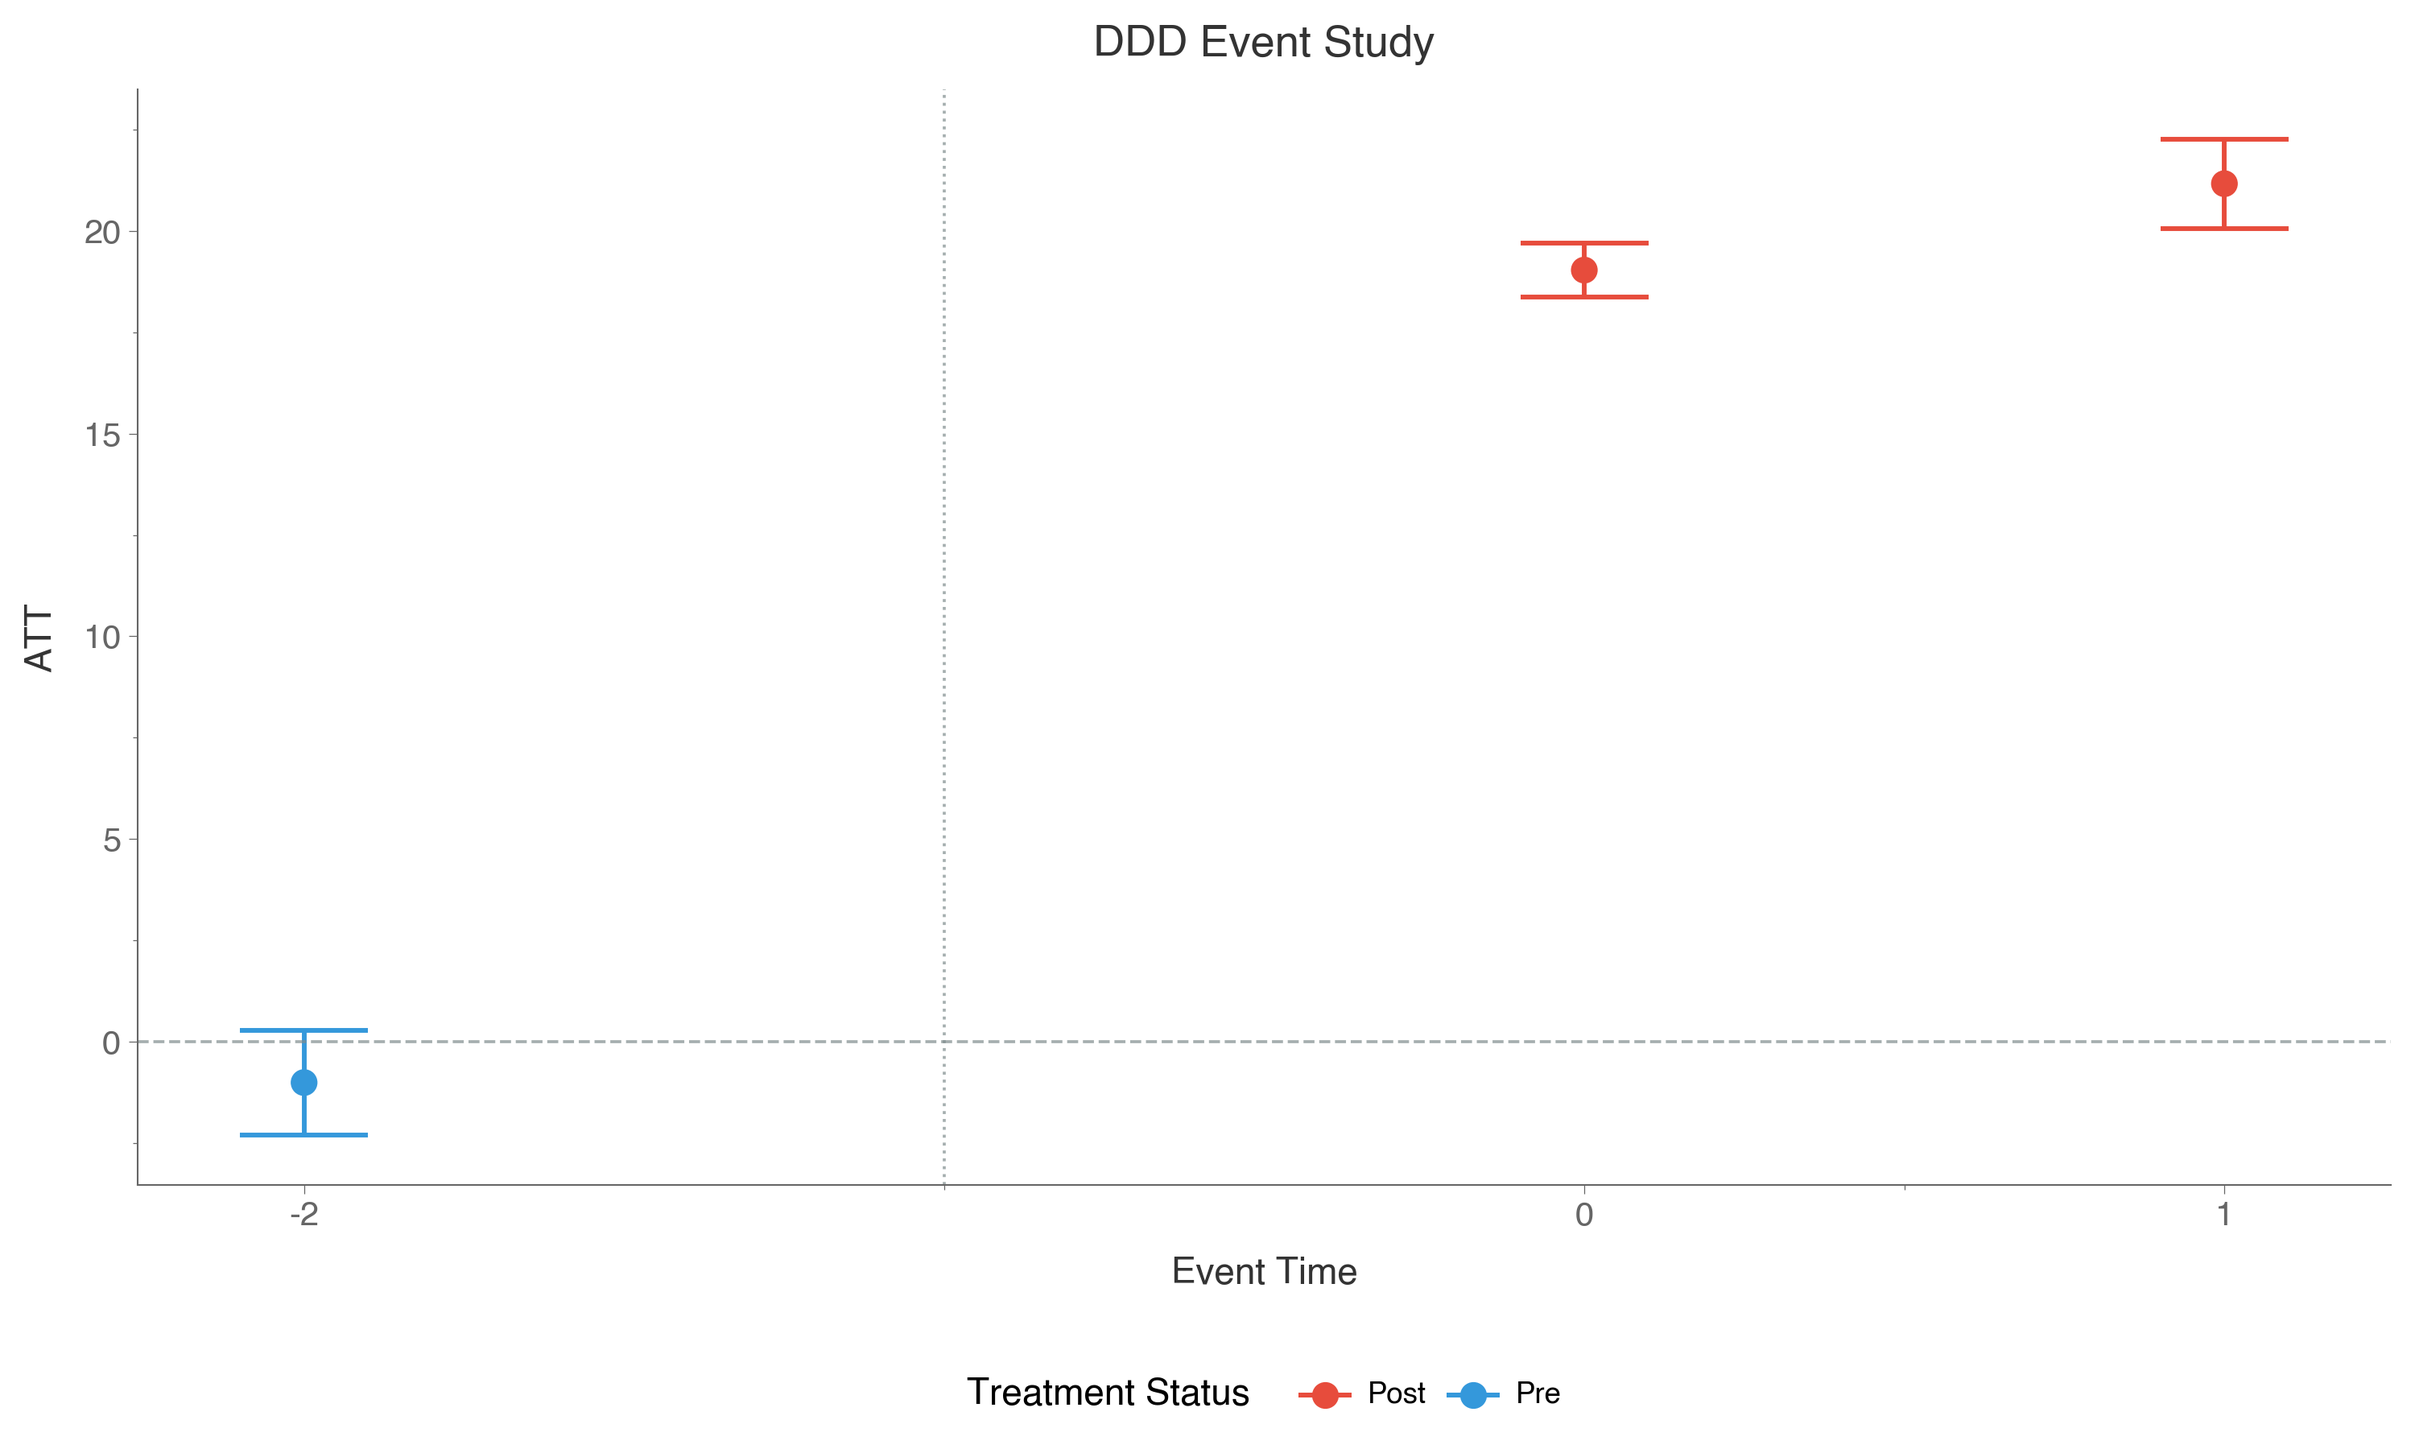
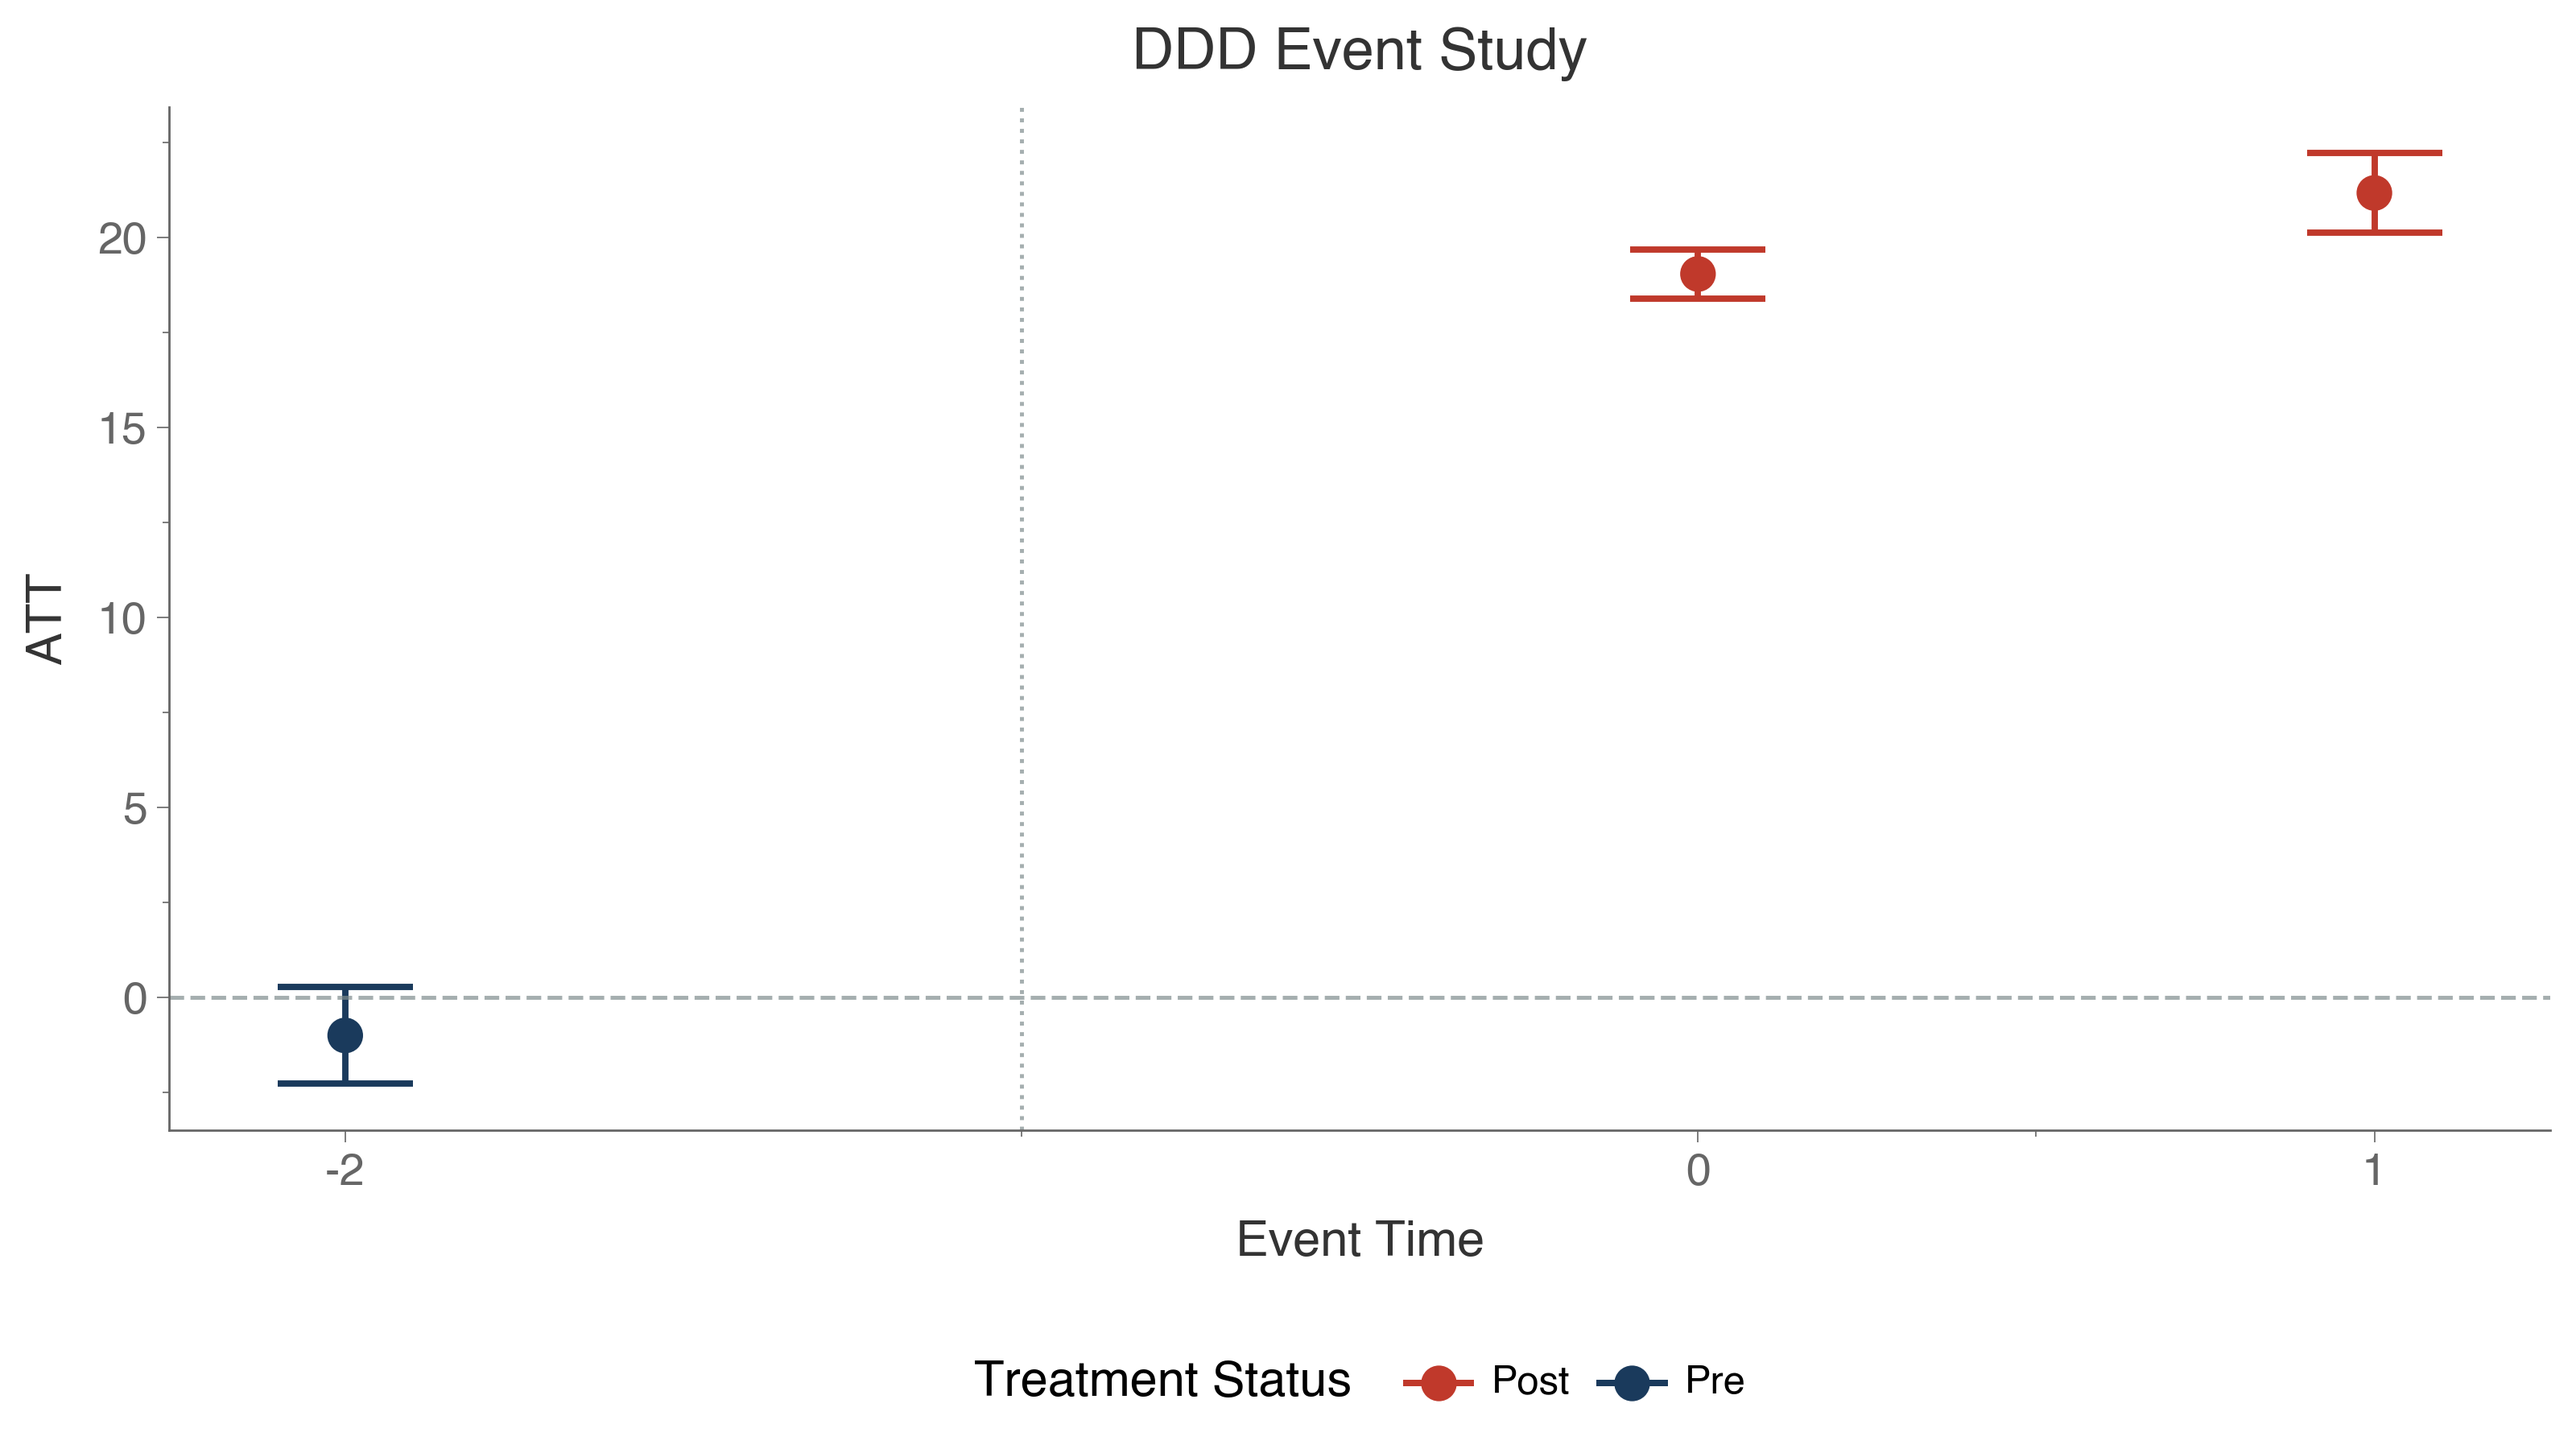
REF: update color scheme

diff --git a/moderndid/plots/themes.py b/moderndid/plots/themes.py
@@ -5,16 +5,16 @@ from __future__ import annotations
 from plotnine import element_blank, element_line, element_rect, element_text, theme
 
 COLORS = {
-    "pre_treatment": "#3498db",
-    "post_treatment": "#e74c3c",
+    "pre_treatment": "#1a3a5c",
+    "post_treatment": "#c0392b",
     "line": "#3a3a3a",
     "ci_fill": "#bfbfbf",
     "reference": "gray",
-    "original": "#2c3e50",
-    "flci": "#3498db",
+    "original": "#4a4a4a",
+    "flci": "#1a3a5c",
     "conditional": "#2ecc71",
     "c_f": "#9b59b6",
-    "c_lf": "#e74c3c",
+    "c_lf": "#c0392b",
 }
 
 
